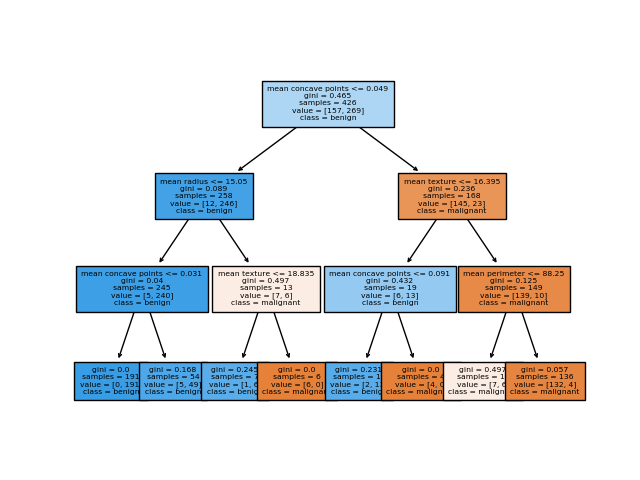
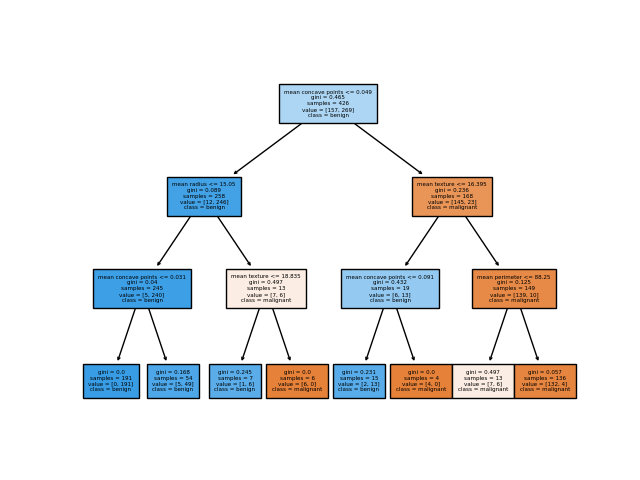
v2.1

diff --git a/2 - Decision Tree & Random Forest/RandomForest_Arampatzis_Georgios_28.py b/2 - Decision Tree & Random Forest/RandomForest_Arampatzis_Georgios_28.py
@@ -143,7 +143,71 @@ print("F1: ", metrics.f1_score(y_test, y_predicted, average="macro"))
 # (one for each metric).
 # In essence, the same pipeline as previously will be followed.
 # =============================================================================
+n_estimators = 200
+# Create empty lists for all metrics + 1 for n_estimators
+num_of_trees = []
+recall = []
+precision = []
+accuracy = []
+f1score = []
 
+for i in range(1, n_estimators + 1):
+    # Creating models
+    forest = ensemble.RandomForestClassifier(
+        n_estimators=i,
+        criterion='gini',
+        max_depth=3,
+        #warm_start=True,
+        random_state=1)
+    # Training models
+    forest.fit(x_train, y_train)
+    # Prediction of models
+    y_pred = forest.predict(x_test)
+    # Filling lists with metrics + n_estimators
+    num_of_trees.append(i)
+    recall.append(metrics.recall_score(y_test, y_pred, average="macro"))
+    precision.append(metrics.precision_score(y_test, y_pred, average="macro"))
+    accuracy.append( metrics.accuracy_score(y_test, y_pred))
+    f1score.append(metrics.f1_score(y_test, y_pred, average="macro"))
+
+# plt.plot(num_of_trees, recall)
+# plt.show()
+fig, axs = plt.subplots(2, 2,
+                        gridspec_kw={'hspace': 0.5, 'wspace': 0.5})
+axs[0, 0].plot(num_of_trees, recall, 'tab:blue')
+axs[0, 0].set_title('Recall')
+axs[0, 1].plot(num_of_trees, precision, 'tab:orange')
+axs[0, 1].set_title('Precision')
+axs[1, 0].plot(num_of_trees, accuracy, 'tab:green')
+axs[1, 0].set_title('Accuracy')
+axs[1, 1].plot(num_of_trees, f1score, 'tab:red')
+axs[1, 1].set_title('F1 Score')
+
+for ax in axs.flat:
+    ax.set(xlabel='Number of Estimators', ylabel='Percentage (%)')
+
+# Hide x labels and tick labels for top plots and y ticks for right plots.
+# for ax in axs.flat:
+#     ax.label_outer()
+
+# # Save plot
+plt.savefig('RandomForest_Metrics_BreastCancerDB.png')
+
+# # Show plot
+plt.show()
+
+# After finishing the above plots, try doing the same thing on the train data
+# Hint: you can plot on the same figure in order to add a second line.
+# Change the line color to distinguish performance metrics on train/test data
+# In the end, you should have 4 figures (one for each metric)
+# And each figure should have 2 lines (one for train data and one for test data)
+
+
+
+# CREATE MODELS AND PLOTS HERE
+
+
+# =============================================================================
 # n_estimators = [int(x) for x in np.linspace(start=1, stop=200, num=200)]
 # tree = model_selection.GridSearchCV(
 #     model,
@@ -153,13 +217,6 @@ print("F1: ", metrics.f1_score(y_test, y_predicted, average="macro"))
 #     cv=3,
 #     scoring='neg_mean_absolute_error')
 # tree.fit(x_train, y_train)
-
-
-# After finishing the above plots, try doing the same thing on the train data
-# Hint: you can plot on the same figure in order to add a second line.
-# Change the line color to distinguish performance metrics on train/test data
-# In the end, you should have 4 figures (one for each metric)
-# And each figure should have 2 lines (one for train data and one for test data)
 
 # def plot_results(model, param='n_estimators', name='Num Trees'):
 #     param_name = 'param_%s' % param
@@ -192,8 +249,3 @@ print("F1: ", metrics.f1_score(y_test, y_predicted, average="macro"))
 #
 #
 # plot_results(tree)
-
-# CREATE MODELS AND PLOTS HERE
-
-
-# =============================================================================

diff --git a/2 - Decision Tree & Random Forest/DecisionTree_Arampatzis_Georgios_28.py b/2 - Decision Tree & Random Forest/DecisionTree_Arampatzis_Georgios_28.py
@@ -121,19 +121,24 @@ print("F1: ", metrics.f1_score(y_train, y_predicted_train, average="macro"))
 # feature_names = breastCancer.feature_names[:numberOfFeatures]
 # class_names = breastCancer.target_names
 # =============================================================================
-dot_data = tree.export_graphviz(
-    decision_tree=model,
-    feature_names=breastCancer.feature_names[:numberOfFeatures],
-    class_names=breastCancer.target_names,
-    filled=True,
-    leaves_parallel=True,
-    impurity=True)
+# dot_data = tree.export_graphviz(
+#     decision_tree=model,
+#     out_file='decisiontree.dot',
+#     feature_names=breastCancer.feature_names[:numberOfFeatures],
+#     class_names=breastCancer.target_names,
+#     filled=True,
+#     leaves_parallel=True,
+#     impurity=True)
 
 # =============================================================================
 # The below command will export the graph into a PDF file located within the same folder as this script.
 # If you want to view it from the Python IDE, type 'graph' (without quotes) on the python console after the script has been executed.
-graph = graphviz.Source(dot_data)
+#graph = graphviz.Source(dot_data)
 ##########graph.render("breastCancerTreePlot") ################ ERRORS!!!!!!!!!!!!!!!!!
+
+# with open('decisiontree.dot') as f:
+#     dot_graph = f.read()
+# display(graphviz.Source(dot_data))
 
 # =============================================================================
 # Had issues with 'graph.render("breastCancerTreePlot")', was getting error:
@@ -168,7 +173,7 @@ tree.plot_tree(
     class_names=breastCancer.target_names,
     filled=True,
     impurity=True,
-    fontsize=5.5)
+    fontsize=4)
 plt.savefig('DecisionTree_BreastCancerDS.png')
 plt.show()
 
